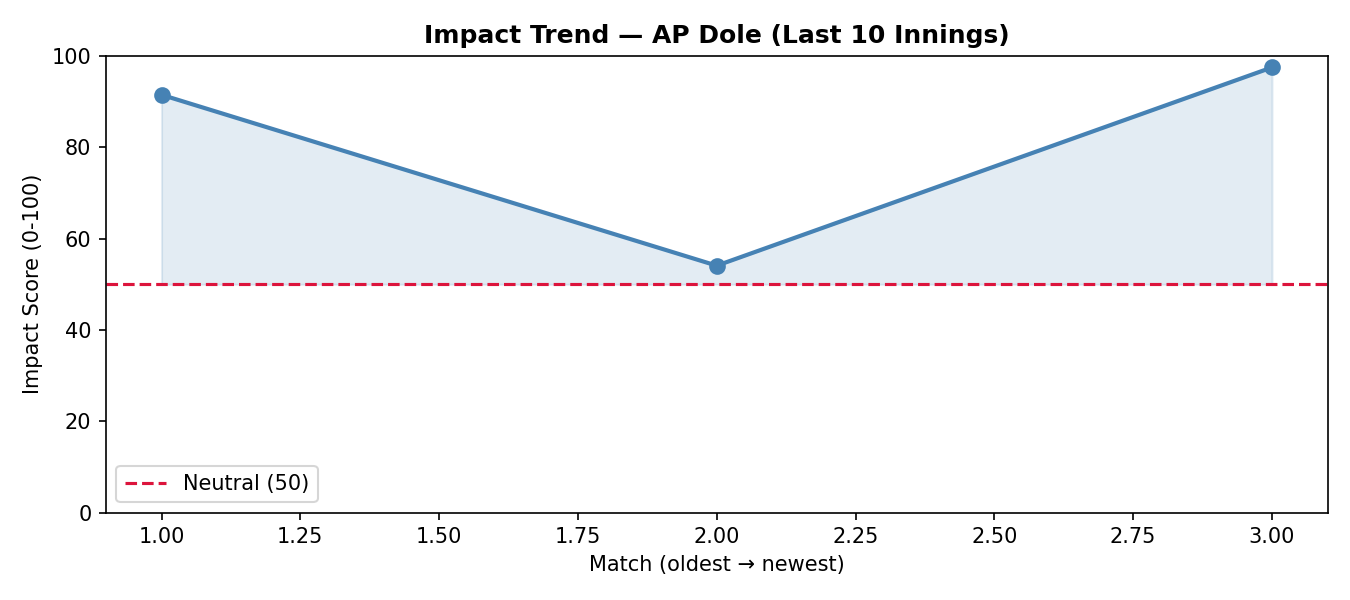
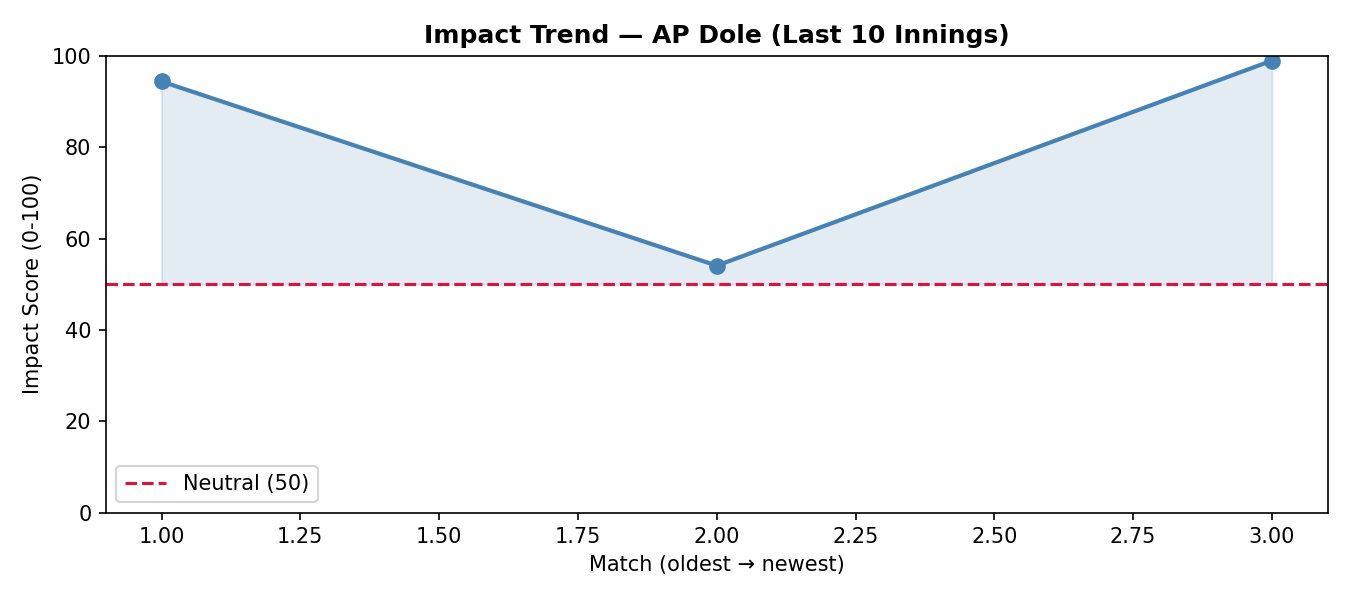
changes done

diff --git a/frontend/src/components/PlayerSearch.jsx b/frontend/src/components/PlayerSearch.jsx
@@ -1,4 +1,4 @@
-import React, { useState, useEffect } from 'react';
+import React, { useState, useEffect, useRef } from 'react';
 import { useNavigate } from 'react-router-dom';
 import { getPlayersList } from '../services/api';
 import { Search, Clock, X } from 'lucide-react';
@@ -9,7 +9,9 @@ const PlayerSearch = ({ compact = false }) => {
   const [players, setPlayers] = useState([]);
   const [searchTerm, setSearchTerm] = useState('');
   const [recentSearches, setRecentSearches] = useState([]);
+  const [showSuggestions, setShowSuggestions] = useState(false);
   const navigate = useNavigate();
+  const wrapperRef = useRef(null);
 
   useEffect(() => {
     const fetchPlayers = async () => {
@@ -21,21 +23,29 @@ const PlayerSearch = ({ compact = false }) => {
       }
     };
     fetchPlayers();
-    // Load recent from localStorage
     try {
       const stored = JSON.parse(localStorage.getItem(RECENT_KEY) || '[]');
       setRecentSearches(stored);
     } catch { }
   }, []);
 
+  useEffect(() => {
+    function handleClickOutside(event) {
+      if (wrapperRef.current && !wrapperRef.current.contains(event.target)) {
+        setShowSuggestions(false);
+      }
+    }
+    document.addEventListener("mousedown", handleClickOutside);
+    return () => document.removeEventListener("mousedown", handleClickOutside);
+  }, [wrapperRef]);
+
   const navigateToPlayer = (player) => {
     if (!player) return;
-    // Save to recent searches
     const updated = [player, ...recentSearches.filter(p => p !== player)].slice(0, 5);
     setRecentSearches(updated);
     localStorage.setItem(RECENT_KEY, JSON.stringify(updated));
     navigate(`/player/${encodeURIComponent(player)}`);
-    if (compact) setSearchTerm('');
+    if (compact) setShowSuggestions(false);
   };
 
   const clearRecent = (e) => {
@@ -44,24 +54,26 @@ const PlayerSearch = ({ compact = false }) => {
     localStorage.removeItem(RECENT_KEY);
   };
 
-  const [showSuggestions, setShowSuggestions] = useState(false);
-
+  // Allow searching for parts of a name (e.g., "m s dhoni" finds "MS Dhoni")
+  const searchWords = searchTerm.toLowerCase().trim().split(/\s+/);
   const filteredPlayers = searchTerm.trim().length > 0
-    ? players.filter(p => p.toLowerCase().includes(searchTerm.toLowerCase())).slice(0, 8)
-    : [];
+    ? players.filter(p => searchWords.every(word => p.toLowerCase().includes(word)))
+    : (compact ? [] : players);
+  
+  // Cap the initial list if not searching to prevent lag
+  const displayPlayers = searchTerm.trim().length > 0 ? filteredPlayers : players.slice(0, 100);
 
-  const handleCompactSubmit = (player) => {
-    setSearchTerm('');
+  const handleSelectPlayer = (player) => {
+    setSearchTerm(player);
     setShowSuggestions(false);
-    navigateToPlayer(player);
+    if (compact) {
+      navigateToPlayer(player);
+    }
   };
 
   if (compact) {
     return (
-      <div style={{ position: 'relative', width: '240px' }} onBlur={(e) => {
-        if (!e.currentTarget.contains(e.relatedTarget)) setShowSuggestions(false);
-      }}>
-        {/* Text input */}
+      <div ref={wrapperRef} style={{ position: 'relative', width: '240px' }}>
         <input
           type="text"
           placeholder="Search player..."
@@ -69,7 +81,7 @@ const PlayerSearch = ({ compact = false }) => {
           onChange={(e) => { setSearchTerm(e.target.value); setShowSuggestions(true); }}
           onFocus={() => setShowSuggestions(true)}
           onKeyDown={(e) => {
-            if (e.key === 'Enter' && filteredPlayers.length > 0) handleCompactSubmit(filteredPlayers[0]);
+            if (e.key === 'Enter' && filteredPlayers.length > 0) handleSelectPlayer(filteredPlayers[0]);
             if (e.key === 'Escape') setShowSuggestions(false);
           }}
           style={{ width: '100%', backgroundColor: 'rgba(255,255,255,0.05)', border: '1px solid var(--border)', borderRadius: '8px', padding: '9px 36px 9px 14px', color: 'var(--text-main)', fontSize: '0.88rem', outline: 'none', transition: 'border-color 0.2s, box-shadow 0.2s' }}
@@ -78,14 +90,12 @@ const PlayerSearch = ({ compact = false }) => {
         />
         <Search size={15} style={{ position: 'absolute', right: '11px', top: '11px', color: 'var(--text-muted)', pointerEvents: 'none' }} />
 
-        {/* Dropdown suggestions */}
         {showSuggestions && filteredPlayers.length > 0 && (
-          <div style={{ position: 'absolute', top: 'calc(100% + 6px)', left: 0, width: '100%', background: 'var(--bg-surface)', border: '1px solid var(--border-primary)', borderRadius: '10px', overflow: 'hidden', zIndex: 1000, boxShadow: '0 12px 30px rgba(0,0,0,0.5)' }}>
+          <div className="custom-scrollbar" style={{ position: 'absolute', top: 'calc(100% + 6px)', left: 0, width: '100%', maxHeight: '400px', overflowY: 'auto', background: 'var(--bg-surface)', border: '1px solid var(--border-primary)', borderRadius: '10px', zIndex: 1000, boxShadow: '0 12px 30px rgba(0,0,0,0.5)' }}>
             {filteredPlayers.map((player) => (
               <div
                 key={player}
-                tabIndex={0}
-                onMouseDown={() => handleCompactSubmit(player)}
+                onMouseDown={(e) => { e.preventDefault(); handleSelectPlayer(player); }}
                 style={{ padding: '10px 15px', cursor: 'pointer', fontSize: '0.88rem', color: 'var(--text-main)', fontWeight: 600, borderBottom: '1px solid var(--border)', transition: 'background 0.15s' }}
                 onMouseEnter={e => e.currentTarget.style.background = 'rgba(56,189,248,0.1)'}
                 onMouseLeave={e => e.currentTarget.style.background = 'transparent'}
@@ -100,23 +110,50 @@ const PlayerSearch = ({ compact = false }) => {
   }
 
   return (
-    <div style={{ display: 'flex', flexDirection: 'column', gap: '20px', maxWidth: '500px', width: '100%', margin: '0 auto' }}>
+    <div ref={wrapperRef} style={{ display: 'flex', flexDirection: 'column', gap: '20px', maxWidth: '500px', width: '100%', margin: '0 auto' }}>
       <div style={{ position: 'relative' }}>
-        <select
-          style={{ width: '100%', backgroundColor: '#0f172a', border: '1px solid rgba(56, 189, 248, 0.4)', borderRadius: '12px', padding: '16px 20px', color: 'white', fontSize: '1.1rem', fontWeight: 600, appearance: 'none' }}
+        <input
+          type="text"
+          placeholder="Search by name (e.g. MS Dhoni)..."
           value={searchTerm}
-          onChange={(e) => setSearchTerm(e.target.value)}
-        >
-          <option value="" disabled>Select a player...</option>
-          {players.map(p => <option key={p} value={p}>{p}</option>)}
-        </select>
+          onChange={(e) => { setSearchTerm(e.target.value); setShowSuggestions(true); }}
+          onFocus={() => setShowSuggestions(true)}
+          onKeyDown={(e) => {
+            if (e.key === 'Enter') {
+               if (players.includes(searchTerm)) navigateToPlayer(searchTerm);
+               else if (displayPlayers.length > 0) handleSelectPlayer(displayPlayers[0]);
+            }
+            if (e.key === 'Escape') setShowSuggestions(false);
+          }}
+          style={{ width: '100%', backgroundColor: '#0f172a', border: '1px solid rgba(56, 189, 248, 0.4)', borderRadius: '12px', padding: '16px 20px', color: 'white', fontSize: '1.1rem', fontWeight: 600, outline: 'none' }}
+        />
         <Search style={{ position: 'absolute', right: '15px', top: '16px', color: 'var(--text-muted)', pointerEvents: 'none' }} />
+
+        {showSuggestions && (searchTerm.trim().length > 0 || displayPlayers.length > 0) && (
+          <div className="custom-scrollbar" style={{ position: 'absolute', top: 'calc(100% + 8px)', left: 0, width: '100%', maxHeight: '300px', overflowY: 'auto', background: '#0f172a', border: '1px solid rgba(56, 189, 248, 0.4)', borderRadius: '12px', zIndex: 1000, boxShadow: '0 12px 30px rgba(0,0,0,0.5)', textAlign: 'left' }}>
+            {displayPlayers.length === 0 ? (
+               <div style={{ padding: '15px 20px', color: 'var(--text-muted)' }}>No players found.</div>
+            ) : (
+              displayPlayers.map((player) => (
+                <div
+                  key={player}
+                  onMouseDown={(e) => { e.preventDefault(); handleSelectPlayer(player); }}
+                  style={{ padding: '12px 20px', cursor: 'pointer', fontSize: '1rem', color: 'white', fontWeight: 500, borderBottom: '1px solid rgba(255,255,255,0.05)', transition: 'background 0.15s' }}
+                  onMouseEnter={e => e.currentTarget.style.background = 'rgba(56,189,248,0.15)'}
+                  onMouseLeave={e => e.currentTarget.style.background = 'transparent'}
+                >
+                  {player}
+                </div>
+              ))
+            )}
+          </div>
+        )}
       </div>
 
       <button
         onClick={() => navigateToPlayer(searchTerm)}
-        disabled={!searchTerm}
-        style={{ width: '100%', padding: '16px', borderRadius: '12px', background: searchTerm ? 'linear-gradient(135deg, var(--primary), #0284c7)' : 'rgba(56,189,248,0.1)', color: 'white', border: '1px solid rgba(56,189,248,0.4)', fontSize: '1.1rem', fontWeight: 800, cursor: searchTerm ? 'pointer' : 'not-allowed', opacity: searchTerm ? 1 : 0.6, letterSpacing: '1px', transition: 'all 0.2s ease' }}
+        disabled={!players.includes(searchTerm)}
+        style={{ width: '100%', padding: '16px', borderRadius: '12px', background: players.includes(searchTerm) ? 'linear-gradient(135deg, var(--primary), #0284c7)' : 'rgba(56,189,248,0.1)', color: 'white', border: '1px solid rgba(56,189,248,0.4)', fontSize: '1.1rem', fontWeight: 800, cursor: players.includes(searchTerm) ? 'pointer' : 'not-allowed', opacity: players.includes(searchTerm) ? 1 : 0.6, letterSpacing: '1px', transition: 'all 0.2s ease' }}
       >
         CALCULATE IMPACT
       </button>

diff --git a/frontend/src/pages/Home.jsx b/frontend/src/pages/Home.jsx
@@ -39,7 +39,7 @@ const Home = () => {
           </p>
 
           {/* Search card */}
-          <div className="glass-panel hover-glow" style={{ width: '100%', maxWidth: '600px', padding: '40px', position: 'relative', overflow: 'hidden' }}>
+          <div className="glass-panel hover-glow" style={{ width: '100%', maxWidth: '600px', padding: '40px', position: 'relative', overflow: 'visible' }}>
             <div style={{ position: 'absolute', top: 0, left: 0, width: '100%', height: '3px', background: 'linear-gradient(90deg, transparent, var(--primary), transparent)' }} />
             <PlayerSearch />
           </div>

diff --git a/ML/src/performance.py b/ML/src/performance.py
@@ -2,7 +2,6 @@ import logging
 import numpy as np
 import pandas as pd
 
-
 def compute_performance(df):
     """
     Computes batting and bowling performance sub-scores per player per match.
@@ -20,16 +19,17 @@ def compute_performance(df):
     10. Empty bat_df or bowl_df → returns empty DataFrames instead of crashing.
     11. All output columns clipped to valid range before returning.
     """
+
     logging.info("Calculating Performance Scores (Batting & Bowling)...")
 
-    # ── Guard: empty input ─────────────────────────────────────────────────────
+    # ── Guard: empty input ─────────────────────────────────────────────
     if df.empty:
         logging.warning("compute_performance received empty DataFrame. Returning empty results.")
         empty_bat  = pd.DataFrame(columns=['match_id', 'innings', 'batsman', 'Performance_bat'])
         empty_bowl = pd.DataFrame(columns=['match_id', 'bowler', 'Performance_bowl'])
         return empty_bat, empty_bowl
 
-    # ── FIX 1: Exclude super overs ─────────────────────────────────────────────
+    # ── FIX 1: Exclude super overs ─────────────────────────────────────
     df = df[df['innings'].isin([1, 2])].copy()
 
     if df.empty:
@@ -38,7 +38,7 @@ def compute_performance(df):
         empty_bowl = pd.DataFrame(columns=['match_id', 'bowler', 'Performance_bowl'])
         return empty_bat, empty_bowl
 
-    # ── FIX 2: Correct dot ball definition ────────────────────────────────────
+    # ── FIX 2: Correct dot ball definition ─────────────────────────────
     if 'wides' not in df.columns:
         df['wides'] = 0
     df['wides'] = df['wides'].fillna(0)
@@ -49,7 +49,7 @@ def compute_performance(df):
         & (df['is_legal_delivery'].astype(bool))
     )
 
-    # ── Per-innings totals ──────────────────────────────────────────────────────
+    # ── Per-innings totals ─────────────────────────────────────────────
     innings_totals = (
         df.groupby(['match_id', 'innings'])['total_runs']
         .sum()
@@ -57,15 +57,17 @@ def compute_performance(df):
         .rename(columns={'total_runs': 'innings_total'})
     )
 
-    # ══════════════════════════════════════════════════════════════════════
+    # ═══════════════════════════════════════════════════════════════════
     #  BATTING PERFORMANCE
-    # ══════════════════════════════════════════════════════════════════════
+    # ═══════════════════════════════════════════════════════════════════
 
     required_bat_cols = ['match_id', 'innings', 'batsman', 'runs', 'is_valid_facing']
     missing_bat = [c for c in required_bat_cols if c not in df.columns]
+
     if missing_bat:
         logging.warning(f"Missing batting columns: {missing_bat}. Returning empty bat_df.")
         bat_df = pd.DataFrame(columns=['match_id', 'innings', 'batsman', 'Performance_bat'])
+
     else:
         bat_df = df.groupby(['match_id', 'innings', 'batsman']).agg(
             runs=('runs', 'sum'),
@@ -75,46 +77,72 @@ def compute_performance(df):
 
         bat_df = bat_df.merge(innings_totals, on=['match_id', 'innings'], how='left')
 
-        # FIX 7: guard innings_total = 0 (abandoned/no-result innings)
         bat_df['innings_total'] = bat_df['innings_total'].fillna(1).replace(0, 1)
 
         bat_df['strike_rate'] = (
             bat_df['runs'] / np.maximum(bat_df['balls_faced'], 1)
         ) * 100
 
-        # Normalize metrics so an "average" performance equals around 1.0
-        # Average runs ~ 30, average SR ~ 135, average boundaries ~ 4
-        bat_df['Runs_Impact']     = np.clip(bat_df['runs'] / 30, 0, 2.5)
-        bat_df['SR_Impact']       = np.clip(bat_df['strike_rate'] / 135, 0, 2.5)
-        bat_df['Boundary_Impact'] = np.clip(bat_df['boundaries'] / 4, 0, 2.5)
+        bat_df['runs_contribution'] = (
+            bat_df['runs'] / bat_df['innings_total']
+        ).fillna(0)
 
-        # FIX 7: fill NaN before weighted sum
-        bat_df[['Runs_Impact', 'SR_Impact', 'Boundary_Impact']] = (
-            bat_df[['Runs_Impact', 'SR_Impact', 'Boundary_Impact']].fillna(0)
+        # ── NEW FIXED SCALING ─────────────────────────────────────────
+
+        # Run impact (log scale to avoid saturation)
+        bat_df['Run_Impact'] = np.clip(
+            np.log1p(bat_df['runs']) / np.log(80),
+            0,
+            1.5
+        )
+
+        # Strike rate impact (centered around 120)
+        bat_df['SR_Impact'] = np.clip(
+            (bat_df['strike_rate'] - 120) / 60 + 1,
+            0.5,
+            1.5
+        )
+
+        # Boundary impact (moderate weight)
+        bat_df['Boundary_Impact'] = np.clip(
+            np.sqrt(bat_df['boundaries']) / 3,
+            0,
+            1.3
+        )
+
+        bat_df[['Run_Impact','SR_Impact','Boundary_Impact']] = (
+            bat_df[['Run_Impact','SR_Impact','Boundary_Impact']].fillna(0)
         )
 
         bat_df['Performance_bat'] = (
-            0.5 * bat_df['Runs_Impact']
-            + 0.3 * bat_df['SR_Impact']
-            + 0.2 * bat_df['Boundary_Impact']
+              0.6 * bat_df['Run_Impact']
+            + 0.25 * bat_df['SR_Impact']
+            + 0.15 * bat_df['Boundary_Impact']
         )
 
         bat_df['BatWorkloadFactor'] = np.clip(
-            0.4 + 0.6 * (bat_df['balls_faced'] / 20), 0, 1.2
-        )
-        bat_df['Performance_bat'] = np.clip(
-            bat_df['Performance_bat'] * bat_df['BatWorkloadFactor'], 0, 5
+            0.4 + 0.6 * (bat_df['balls_faced'] / 30),
+            0,
+            1
         )
 
-    # ══════════════════════════════════════════════════════════════════════
+        bat_df['Performance_bat'] = np.clip(
+            bat_df['Performance_bat'] * bat_df['BatWorkloadFactor'],
+            0,
+            5
+        )
+
+    # ═══════════════════════════════════════════════════════════════════
     #  BOWLING PERFORMANCE
-    # ══════════════════════════════════════════════════════════════════════
+    # ═══════════════════════════════════════════════════════════════════
 
     required_bowl_cols = ['match_id', 'bowler', 'is_bowler_wicket', 'bowler_runs', 'is_legal_delivery']
     missing_bowl = [c for c in required_bowl_cols if c not in df.columns]
+
     if missing_bowl:
         logging.warning(f"Missing bowling columns: {missing_bowl}. Returning empty bowl_df.")
         bowl_df = pd.DataFrame(columns=['match_id', 'bowler', 'Performance_bowl'])
+
     else:
         bowl_df = df.groupby(['match_id', 'bowler']).agg(
             wickets=('is_bowler_wicket', 'sum'),
@@ -131,15 +159,22 @@ def compute_performance(df):
             bowl_df['dot_balls'] / np.maximum(bowl_df['balls_bowled'], 1)
         )
 
-        bowl_df['Wicket_Impact']  = np.clip(bowl_df['wickets']      / 2,    0, 2.5)
-        bowl_df['Economy_Impact'] = np.clip(
-            8.0 / np.maximum(bowl_df['economy_rate'], 0.1), 0, 2
-        )
-        bowl_df['Dot_Impact']     = np.clip(bowl_df['dot_percent']   / 0.35, 0, 2)
+        bowl_df['Wicket_Impact']  = np.clip(bowl_df['wickets'] / 2, 0, 2.5)
 
-        # FIX 7: fill NaN sub-scores before weighted sum
-        bowl_df[['Wicket_Impact', 'Economy_Impact', 'Dot_Impact']] = (
-            bowl_df[['Wicket_Impact', 'Economy_Impact', 'Dot_Impact']].fillna(0)
+        bowl_df['Economy_Impact'] = np.clip(
+            8.0 / np.maximum(bowl_df['economy_rate'], 0.1),
+            0,
+            2
+        )
+
+        bowl_df['Dot_Impact'] = np.clip(
+            bowl_df['dot_percent'] / 0.35,
+            0,
+            2
+        )
+
+        bowl_df[['Wicket_Impact','Economy_Impact','Dot_Impact']] = (
+            bowl_df[['Wicket_Impact','Economy_Impact','Dot_Impact']].fillna(0)
         )
 
         bowl_df['Performance_bowl'] = (
@@ -149,10 +184,15 @@ def compute_performance(df):
         )
 
         bowl_df['WorkloadFactor'] = np.clip(
-            np.sqrt(bowl_df['overs_bowled'] / 4), 0, 1
+            np.sqrt(bowl_df['overs_bowled'] / 4),
+            0,
+            1
         )
+
         bowl_df['Performance_bowl'] = np.clip(
-            bowl_df['Performance_bowl'] * bowl_df['WorkloadFactor'], 0, 5
+            bowl_df['Performance_bowl'] * bowl_df['WorkloadFactor'],
+            0,
+            5
         )
 
     logging.info(
